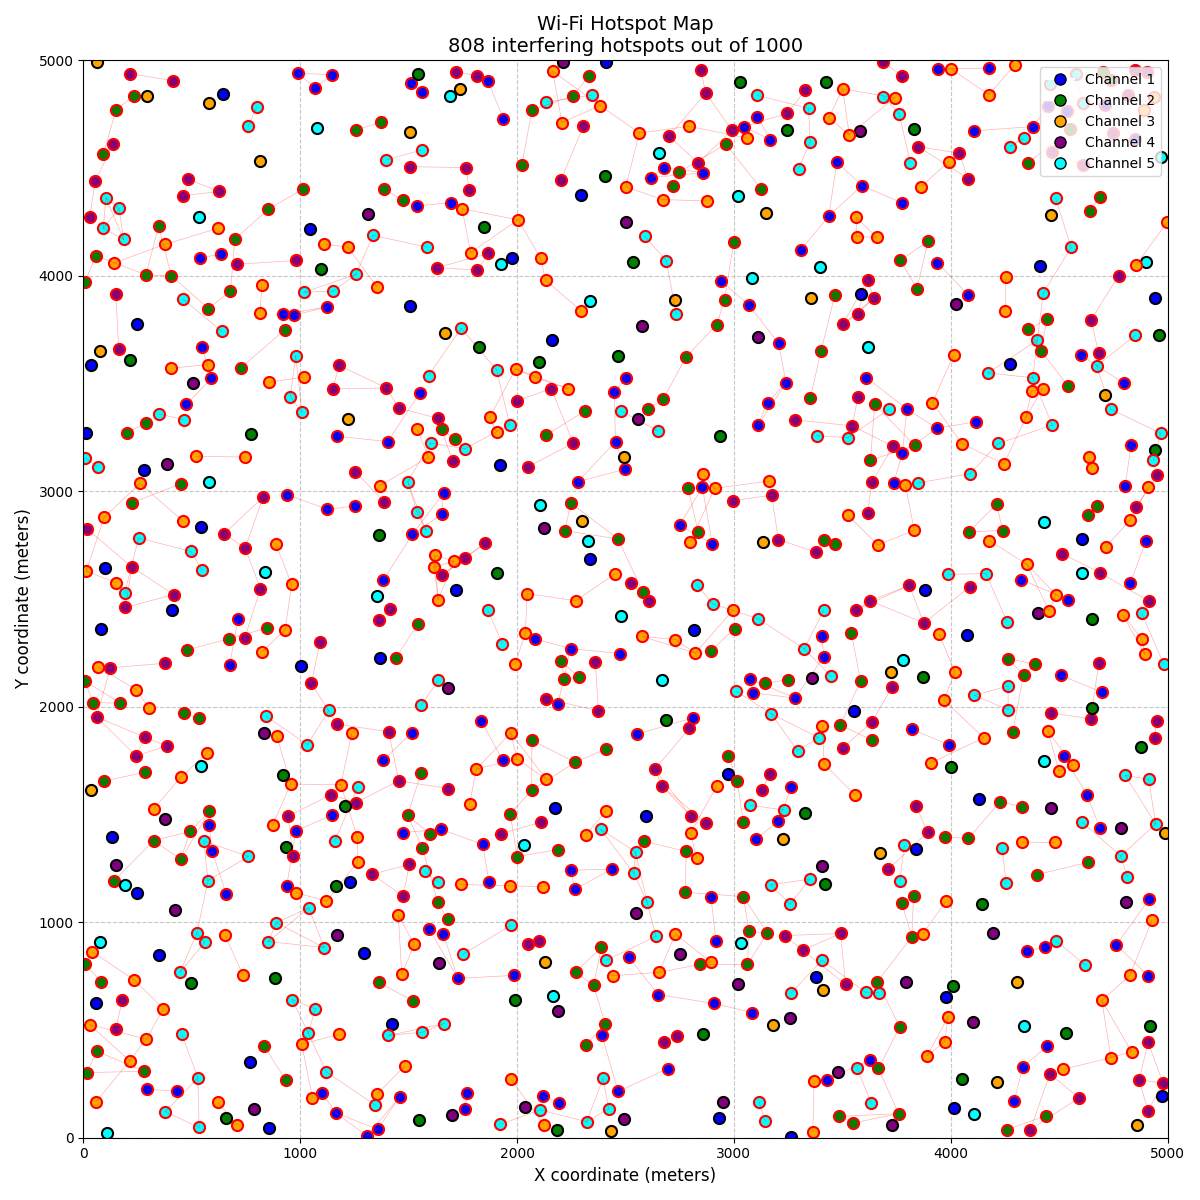
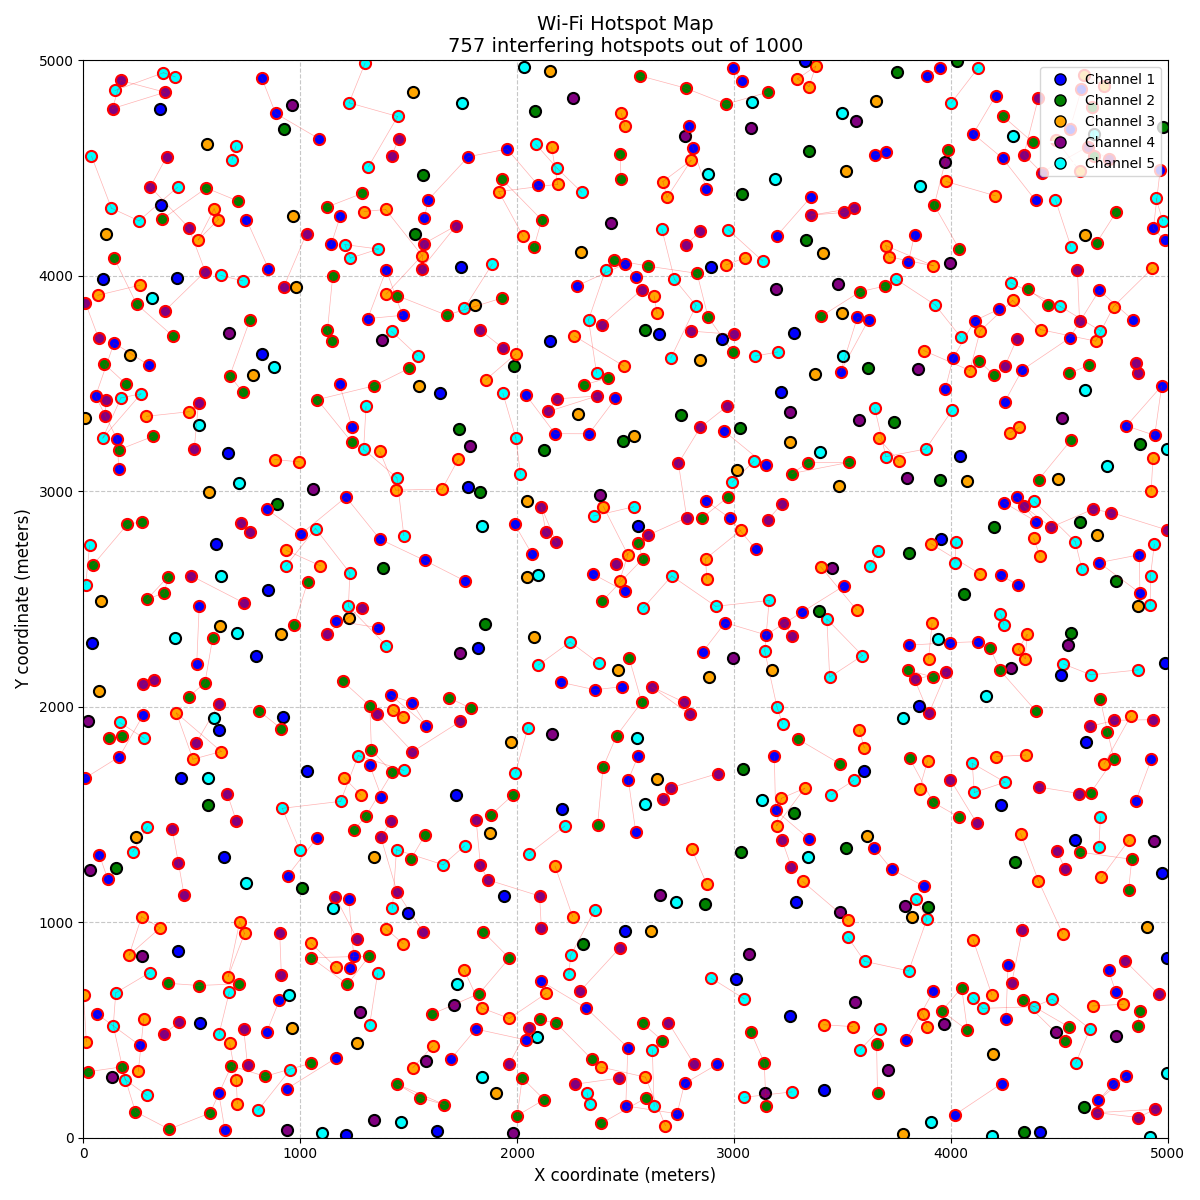
update to the script  iterations

Changed region(s): [[0.0617, 0.0308, 0.9867, 0.9558], [0.0617, 0.6475, 0.0925, 0.6783]]

diff --git a/script.py b/script.py
@@ -47,7 +47,7 @@ def main():
     plot_hotspot_map(hotspots)
 
     # Optimize channels
-    optimized_hotspots, interference_history = optimize_channels(hotspots, max_iterations=50)
+    optimized_hotspots, interference_history = optimize_channels(hotspots, max_iterations=200)
 
     # Plot optimization progress
     plot_optimization_progress(interference_history)
@@ -56,7 +56,7 @@ def main():
     plot_hotspot_map(optimized_hotspots)
 
     # Save optimized hotspots
-    save_hotspots(optimized_hotspots, "optimized_hotspots.pkl")
+    save_hotspots(optimized_hotspots, "hotspots.pkl")
 
 if __name__ == "__main__":
     main()
